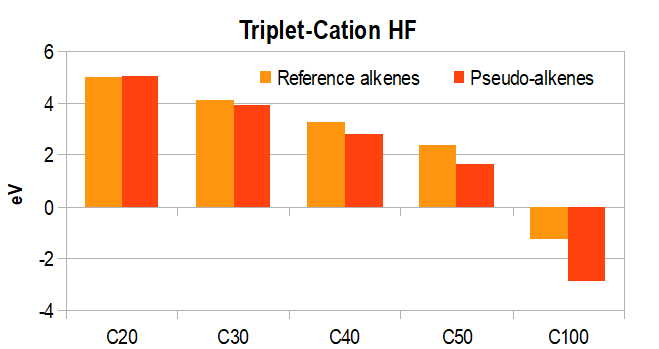
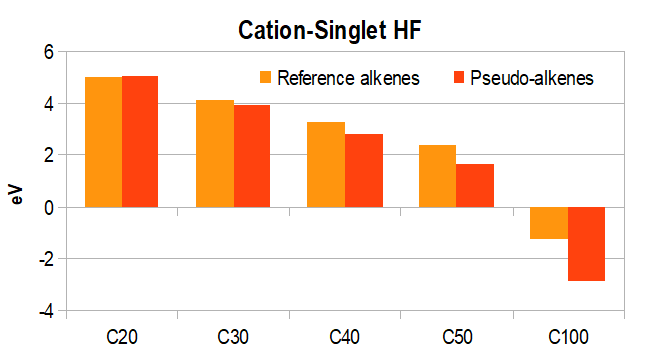
Added latest updates

Changed region(s): [[0.3642, 0.0573, 0.6373, 0.1433]]

diff --git a/main.tex b/main.tex
@@ -586,14 +586,6 @@ Having successfully created a pseudo-ethene with the correct HOMO, we attempt to
 
 \subsection{C\(_{2n}\)H\(_{2n+2}\)}
 
-Taking these new potentials we test them against a series of chain alkenes up to length C\(_{12}\), using a variety of functionals. In each case, the geometry of the reference system is optimised according to the method used, before taking the reference geometry and applying the pseudo-potentials from Table \ref{table:ethene_excitations}, optimised for ethene under HF. Figures \ref{fig:alkenes_hf_dft} and \ref{fig:alkenes_tddft} show the results. Table \ref{table:alkene_errors} gives a breakdown of the percentage errors for each method across all molecules tested. The pattern of increasing HOMO energy and decreasing ionisation and excitation energies seen in the reference systems seems to be well replicated by the pseudo-alkenes, with the energies following the same gradient.
-
-Also compared are TD-DFT results for this system and results of a previous work of some of the authors, which match to within 3\%.
-It seems the previous results have been accurately replicated.\cite{drujon_pseudopotentials_2013}
-Let us recall here that, unlike in our previous work,
-the potentials optimised in this article are fully defined by the position
-of the pseudo-atom: no potentials are placed at the center of any bond.
-
 \begin{figure}[h]
 \includegraphics[width=8cm]{pbe0_homo}
 \includegraphics[width=8cm]{pbe0_ionisation}
@@ -622,20 +614,27 @@ Mean Singlet HOMO error (\%) & 1.3 & 4.0 & 8.5 & 12.0 & 9.7 & - \\
 \label{table:alkene_errors}
 \end{table}
 
+Taking these new potentials we test them against a series of chain alkenes up to length C\(_{12}\), using a variety of functionals. In each case, the geometry of the reference system is optimised according to the method used, before taking the reference geometry and applying the pseudo-potentials from Table \ref{table:ethene_excitations}, optimised for ethene under HF. Figures \ref{fig:alkenes_hf_dft} and \ref{fig:alkenes_tddft} show the results. Table \ref{table:alkene_errors} gives a breakdown of the percentage errors for each method across all molecules tested. The pattern of increasing HOMO energy and decreasing cation-singlet and triplet-singlet energies seen in the reference systems seems to be well replicated by the pseudo-alkenes, with the energies following the same gradient.
+
+Also compared are TD-DFT results for this system and results of a previous work of some of the authors, which match to within 3\%.
+It seems the previous results have been accurately replicated.\cite{drujon_pseudopotentials_2013}
+Let us recall here that, unlike in our previous work,
+the potentials optimised in this article are fully defined by the position
+of the pseudo-atom: no potentials are placed at the center of any bond.
 
 \subsection{Large Systems}
 
-The potentials derived above are also tested on larger systems. Figure \ref{fig:rings_graphs} shows the excitation, ionisation and HOMO energies for several ring systems. As with the short chain alkenes, the general trend of the results is well-replicated by the pseudo-systems, and the percentage errors, displayed in Table \ref{table:ring_system_errors}, are similar.
+The potentials derived above are also tested on larger systems. Figure \ref{fig:rings_graphs} shows the triplet-singlet, cation-singlet and HOMO energies for several ring systems. As with the short chain alkenes, the general trend of the results is well-replicated by the pseudo-systems, and the percentage errors, displayed in Table \ref{table:ring_system_errors}, are similar.
 
 \begin{table}[h]
 \caption{\%-errors across calculation types for ring-systems}
 \begin{tabular}{c c c c c c c}
 \hline
-Calculation Type & HF & PBE0 & PBE & TPSS & TPSSH \\
+Calculation Type & HF & PBE0 & PBE & TPSS & TPSSH & TD-DFT \\
 \hline\hline
-Mean \(\pi - \pi*\) Triplet-Singlet error (\%) & 3.3 & 1.9 & 1.7 & 6.8 & 6.7 \\
-Mean Triplet-Ion error (\%) & 7.4 & 10.0 & 12.5 & 14.4 & 13.0 \\
-Mean Singlet HOMO error (\%) & 3.4  & 9.3  & 13.4 & 17.1 & 14.7 \\
+Mean \(\pi - \pi*\) Triplet-Singlet error (\%) & 3.3 & 1.9 & 1.7 & 6.8 & 6.7 & 0.099 \\
+Mean Triplet-Ion error (\%) & 7.4 & 10.0 & 12.5 & 14.4 & 13.0 & - \\
+Mean Singlet HOMO error (\%) & 3.4  & 9.3  & 13.4 & 17.1 & 14.7 & - \\
 \hline
 \end{tabular}
 \label{table:ring_system_errors}
@@ -645,35 +644,25 @@ Mean Singlet HOMO error (\%) & 3.4  & 9.3  & 13.4 & 17.1 & 14.7 \\
 \caption{\%-errors across calculation types for long chain alkenes (C\(_{20}\)-C\(_{100}\))}
 \begin{tabular}{c c c c c c c}
 \hline\hline
-Calculation Type & HF & PBE0 & PBE & TPSS & TPSSH \\
+Calculation Type & HF & PBE0 & PBE & TPSS & TPSSH & TD-DFT \\
 \hline
-Mean \(\pi - \pi*\) Triplet-Singlet error (\%) & 55.3 & 85.8 & 83.4 & 239.8 & 320.2  \\
-Mean Triplet-Ion error (\%) & 25.1 & 6.7 & 9.4 & 10.3 & 11.6 \\
-Mean Singlet HOMO error (\%) & 1.8 & 7.3 & 11.3 & 16.7 & 13.6 \\
+Mean \(\pi - \pi*\) Triplet-Singlet error (\%) & 55.3 & 85.8 & 83.4 & 239.8 & 320.2 & 0.005 \\
+Mean Triplet-Ion error (\%) & 25.1 & 6.7 & 9.4 & 10.3 & 11.6 & - \\
+Mean Singlet HOMO error (\%) & 1.8 & 7.3 & 11.3 & 16.7 & 13.6 & - \\
 \hline
 \end{tabular}
 \label{table:long_alkene_errors}
 \end{table}
 
-Table \ref{table:long_alkene_errors} gives the same energy details for longer chain alkenes. The pattern of decreasing ionisation and excitation energies with increasing HOMO energy is still followed, with the absolute error remaining consistent. However, with chains of this length the excitation energies begin to become smaller than the systematic error between the pseudo-system and reference system results. It is apparent that the pseudo-potentials will need to be more accurate if they are to be useful for studying these molecules.
+Table \ref{table:long_alkene_errors} gives the same energy details for longer chain alkenes. The pattern of decreasing cation-singlet and triplet-singlet energies with increasing HOMO energy is still followed, with the absolute error remaining consistent. However, with chains of this length we begin to see a divergence in the triplet-singlet energy between the reference and pseudo-systems. 
+
+ the triplet-singlet energies begin to become smaller than the systematic error between the pseudo-system and reference system results. It is apparent that the pseudo-potentials will need to be more accurate if they are to be useful for studying these molecules.
 
 \begin{figure}[h]
-%\includegraphics[width=8cm]{ring_hf_excitation}
-%\includegraphics[width=8cm]{ring_hf_ionisation}
-%\includegraphics[width=8cm]{ring_hf_homo}
 \includegraphics[width=8cm]{ring_pbe0_excitation}
 \includegraphics[width=8cm]{ring_pbe0_ionisation}
 \includegraphics[width=8cm]{ring_pbe0_homo}
 \includegraphics[width=8cm]{ring_tddft_excitation}
-%\includegraphics[width=8cm]{ring_pbe_excitation}
-%\includegraphics[width=8cm]{ring_pbe_ionisation}
-%\includegraphics[width=8cm]{ring_pbe_homo}
-%\includegraphics[width=8cm]{ring_tpss_ionisation}
-%\includegraphics[width=8cm]{ring_tpss_excitation}
-%\includegraphics[width=8cm]{ring_tpss_homo}
-%\includegraphics[width=8cm]{ring_tpssh_excitation}
-%\includegraphics[width=8cm]{ring_tpssh_ionisation}
-%\includegraphics[width=8cm]{ring_tpssh_homo}
 \caption{DFT (PBE0) comparison of reference and pseudo-system energies across a range of ring molecules.}
 \label{fig:rings_graphs}
 \end{figure}
@@ -697,7 +686,7 @@ Here summarised are details of the methods used in calculation. All Hartree-Fock
 
 In earlier calculations with only \(s\)-potentials, optimisation was performed by choosing a range of exponent values and attempting to optimise the coefficient at each to produce the HOMO reference energy. Once the \(p_{z}\) potential was added, the \(s\)-potentials were optimised afterward. 
 
-Once we started to look at excitation and ionisation energies however, optimisation became more complicated. Optimisations were at first performed of the s and p-potentials to reach the HOMO energy of ethene as before. With the different potential variables available, we produced a range of optimised potential sets. The best set of these potentials was then chosen and the values altered by hand in order to match as closely as possible three separate reference values: the singlet HOMO energy, the singlet-triplet \(\pi-\pi*\) excitation energy, and the first ionisation energy. All optimisations used the Brent method in SciPy's optimisation library, with a tolerance of \(1.48*10^{-08}\), and used standard Hartree-Fock calculations.\cite{scipy}
+Once we started to look at excitation and ionisation energies however, optimisation became more complicated. Optimisations were at first performed of the s and p-potentials to reach the HOMO energy of ethene as before. With the different potential variables available, we produced a range of optimised potential sets. The best set of these potentials was then chosen and the values altered by hand in order to match as closely as possible three separate reference values: the singlet HOMO energy, the singlet-triplet \(\pi-\pi*\) excitation energy, and the cation-singlet energy. All optimisations used the Brent method in SciPy's optimisation library, with a tolerance of \(1.48*10^{-08}\), and used standard Hartree-Fock calculations.\cite{scipy}
 
 %%%%%%%%%%%%%%%%%%%%%%%%%%%%%%%%%%%%%%%%%%%%%%%%%%%%%%%%%%%%%%%%%%%%%
 %% The "Acknowledgement" section can be given in all manuscript
